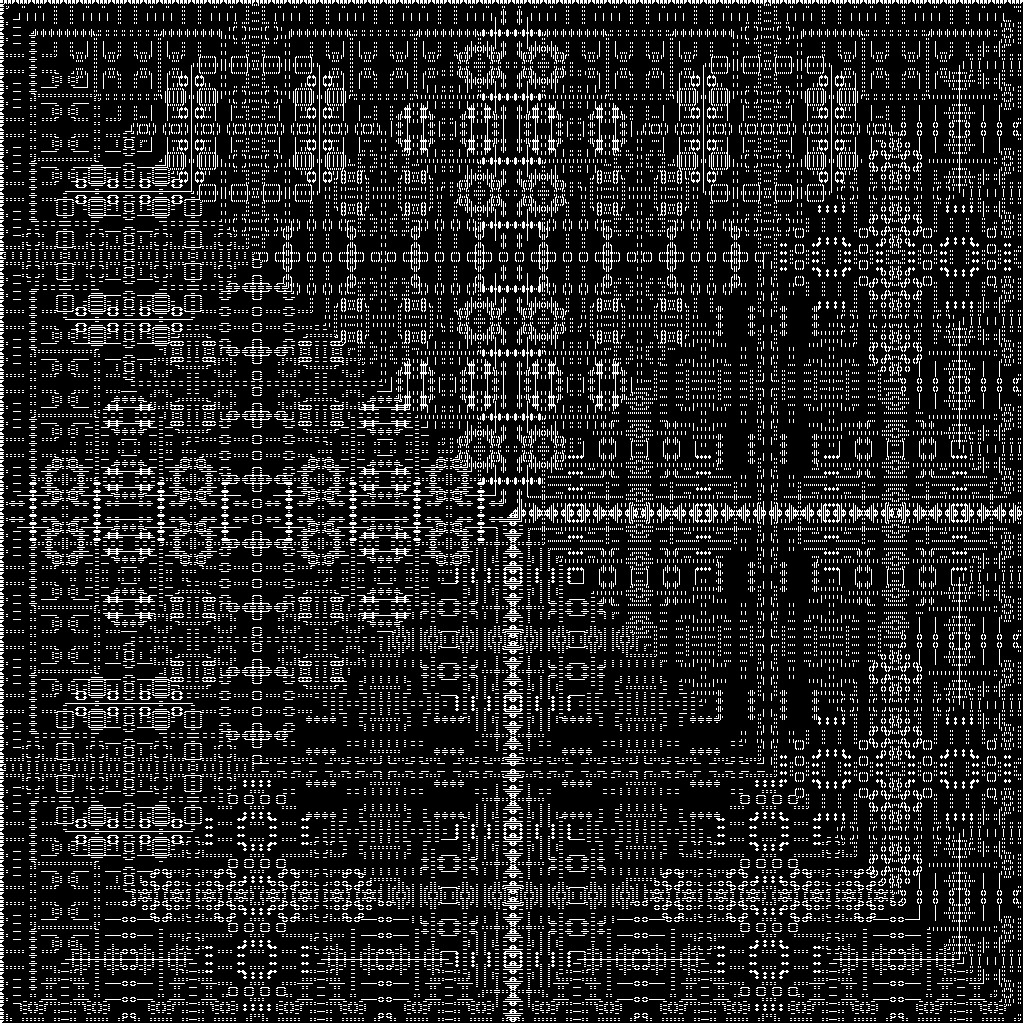
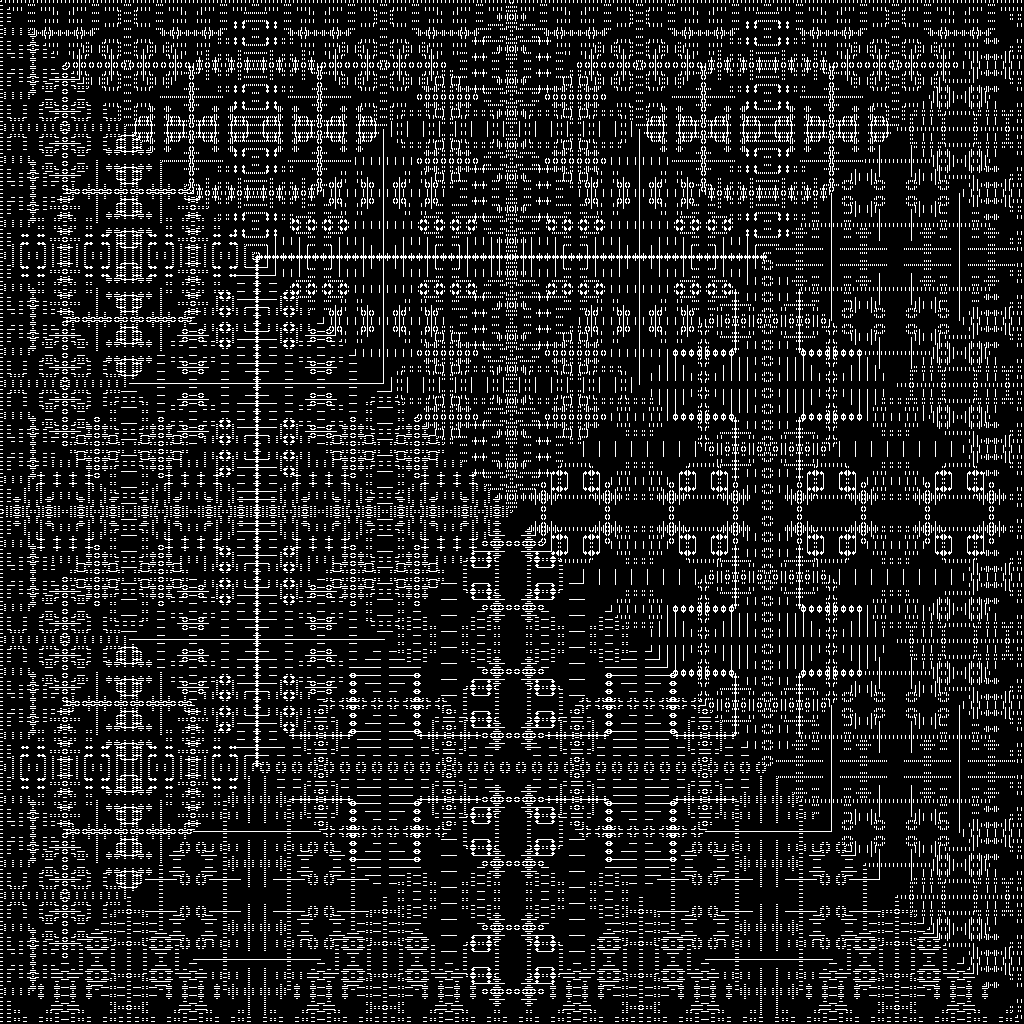
Input functionality

Changed region(s): [[0.0, 0.0, 1.0, 1.0]]

diff --git a/main.py b/main.py
@@ -1,19 +1,28 @@
 from PIL import Image
 import numpy as np
 
-r = range(1024)
+
+
+var1 = int(input("Enter a value for var 1 (37 is default): "))
+var2 = int(input("Enter a value for var 2 (7 is default): "))
+var3 = int(input("Enter a value for var 3 (higher than 100):  "))
+
+var4 = int(input("Enter a size for the bitmap (Default is 1024): "))
+
+var5 = int(input("Enter an int 1-8: "))
+
+r = range(1024) #make this a var
 
 x, y = np.meshgrid(r, r)
-i = (1 == (abs(x+y)^abs(x-y)+1)**12 % 7) * 255
+
+i = (var5 == (abs(x+y)^abs(x-y)+1)**var1 % var2) * var3
+
+
+
 Image.fromarray(i).convert('L').save('1.png')
+im = Image.open('1.png')
+im.show()
 
 
-showpic = Image.open("1.png")
-showpic.show()
-
-
-#TODO: Make a GUI and input prompts so that a user can mess with this
-#TODO: Variables for inputs, user prompts,
-#Test Change
-#Does my git work now?
-#Decoupling an old user account, want to get this solved for the future so its not a problem later
+#This is the vanilla code
+#We want to
